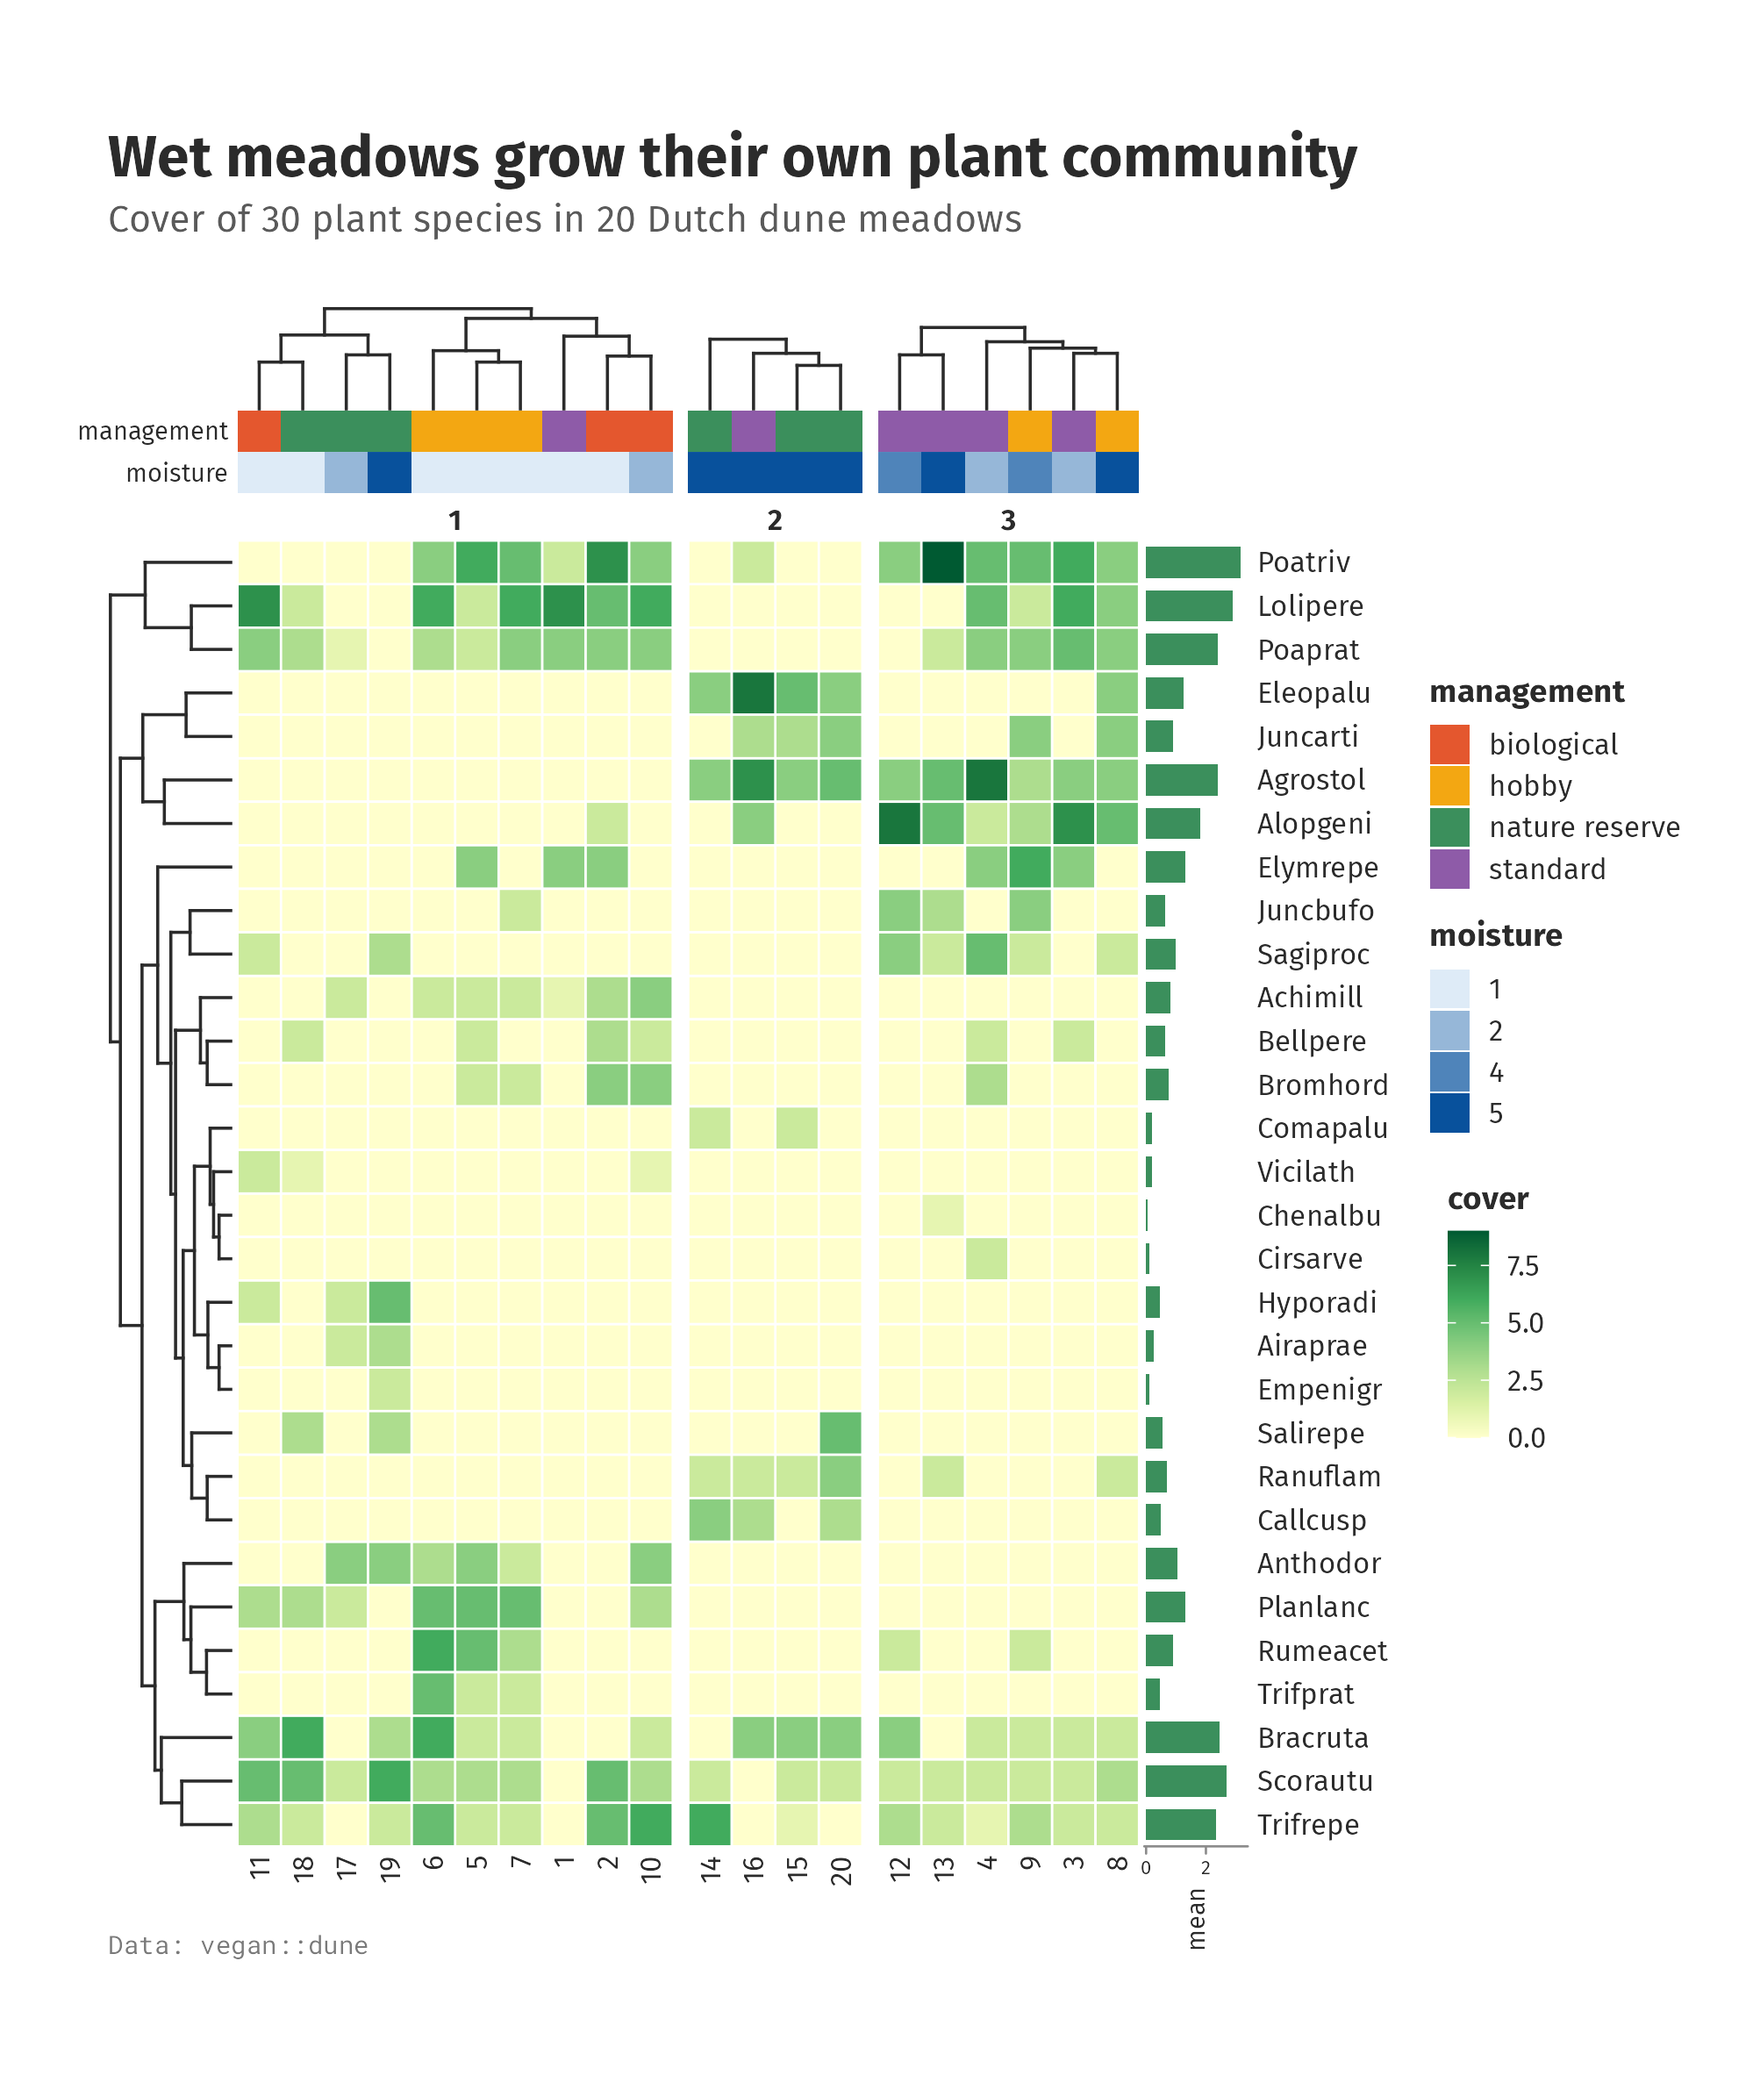
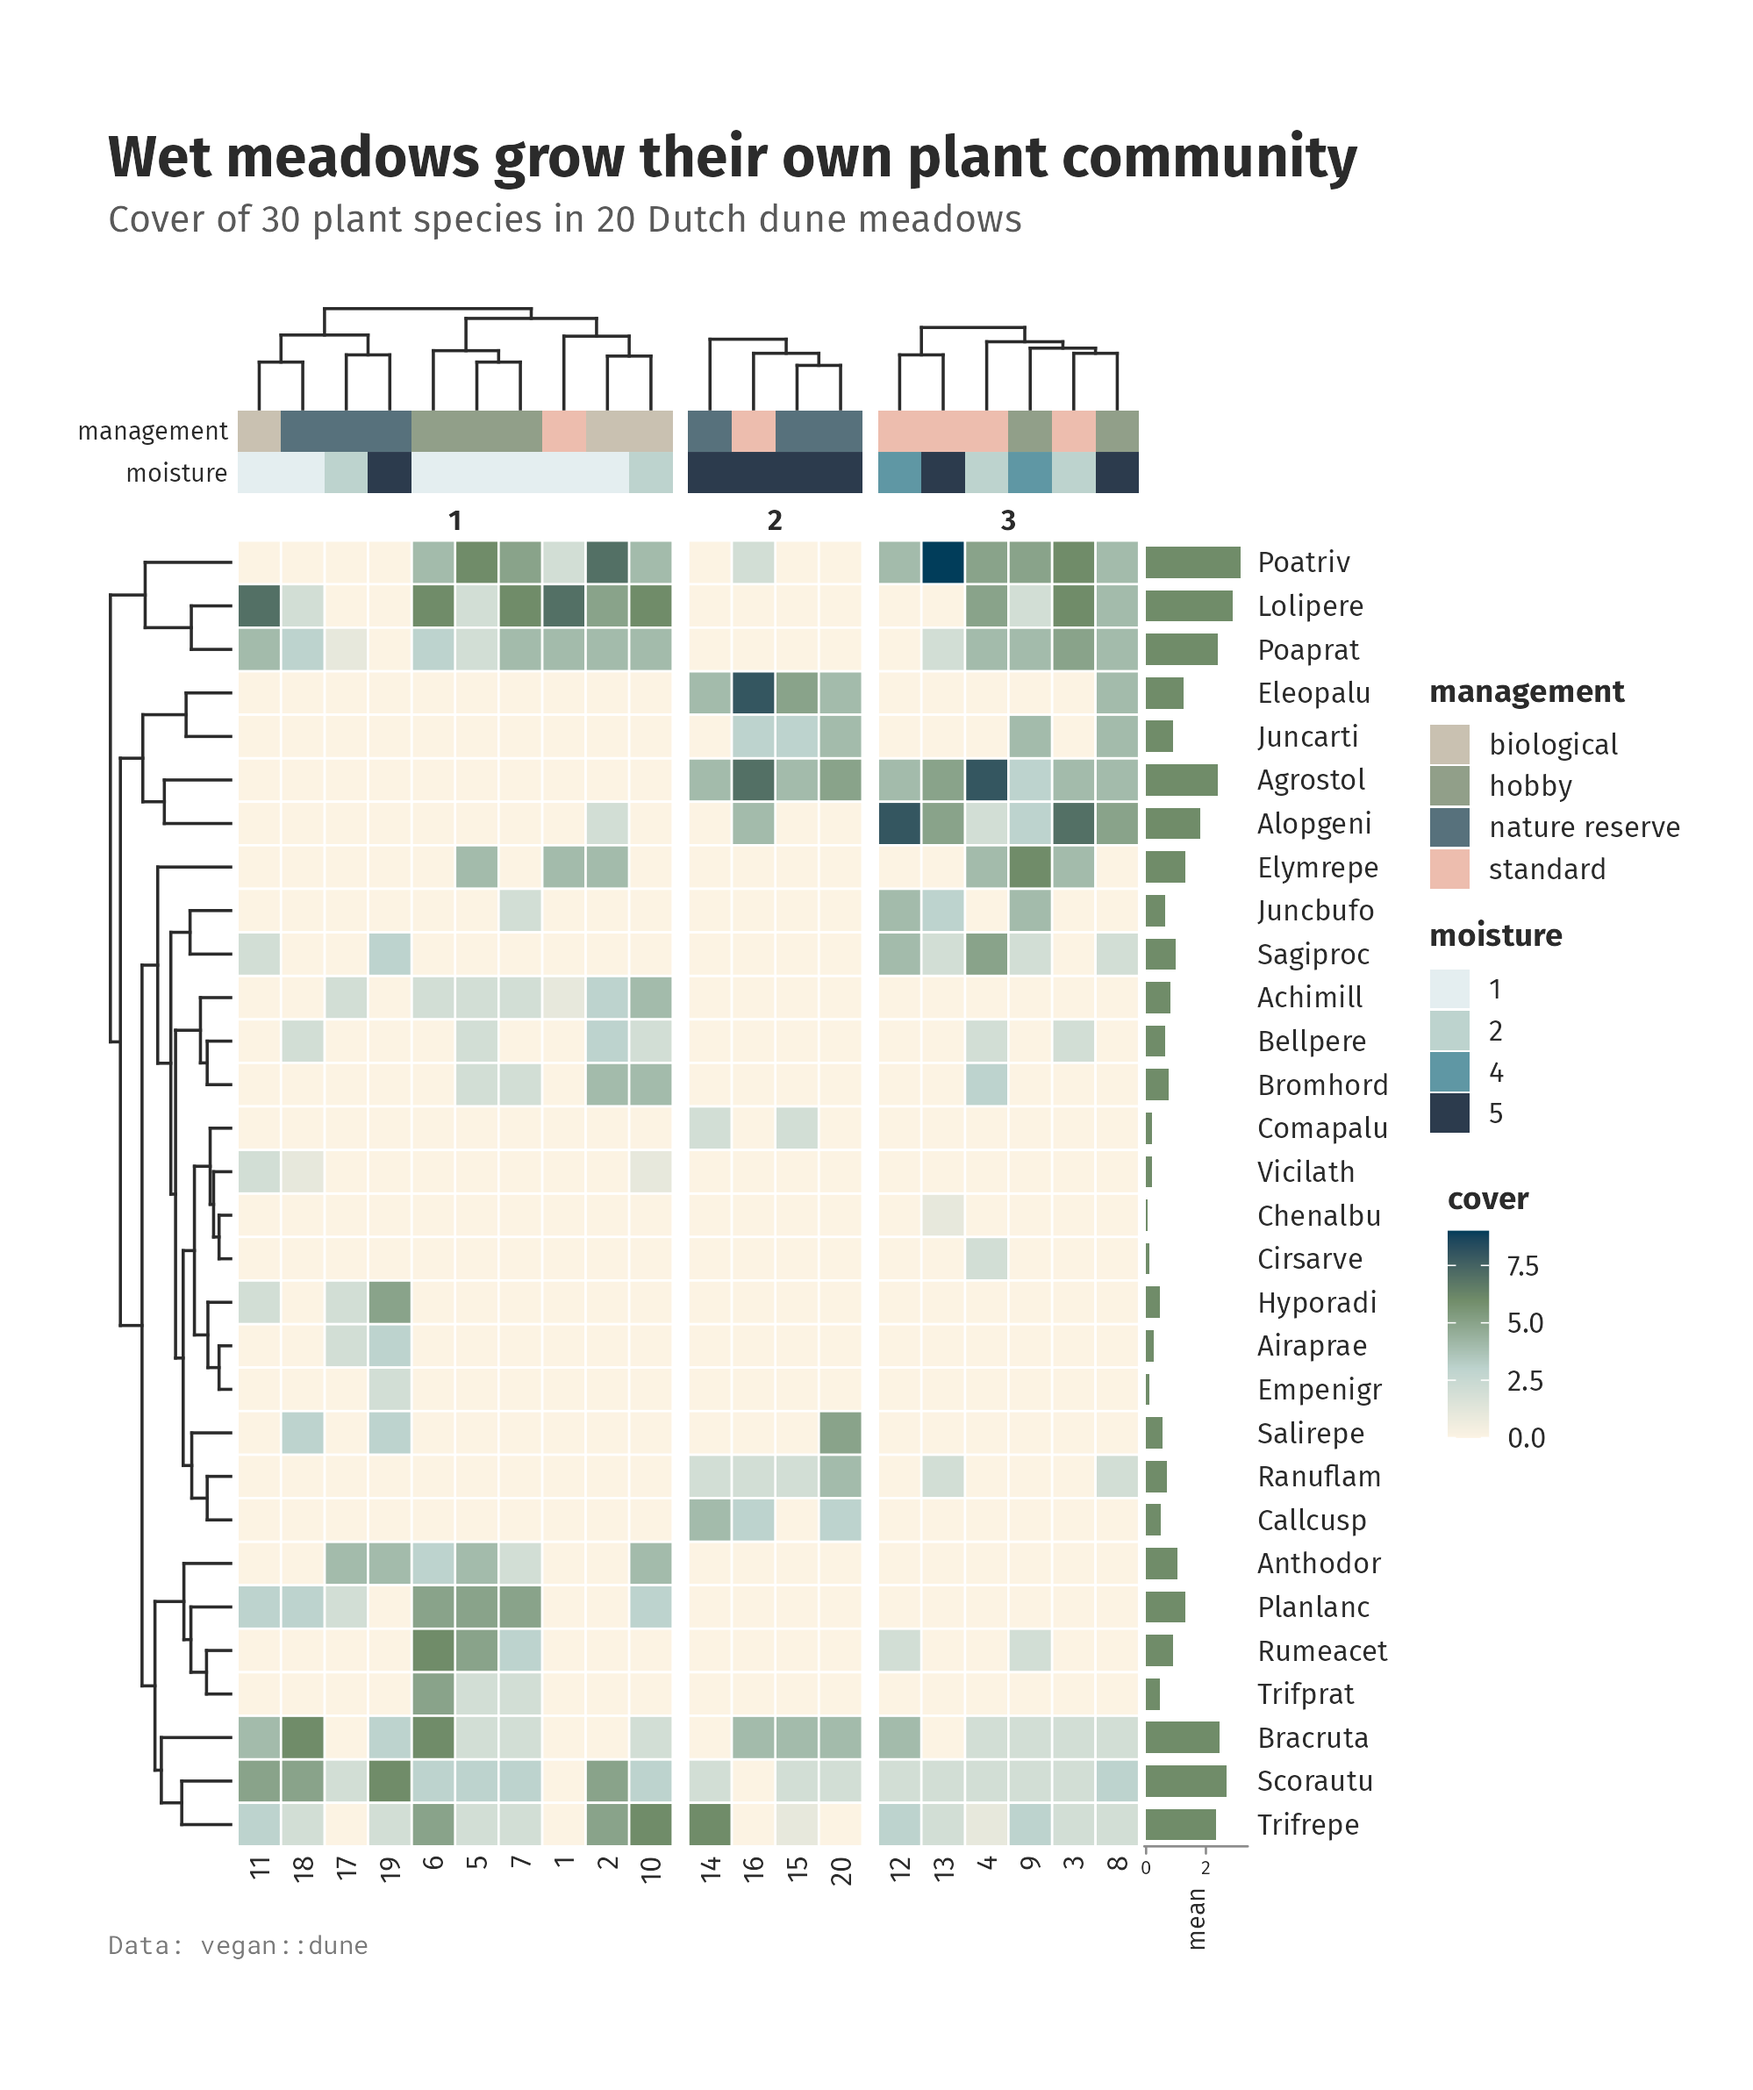
Dune colours from ltc; interactivity for every plot type
- Dune heatmap: cream-sage-teal cover ramp after ltc's seafarer palette,
  quiet earthy tones for the management and moisture tracks
- calor_interactive() keeps hex cells, circle cells and smooth surfaces
  intact, with a clear hover layer on top
- calor_waffle(interactive = TRUE) adds tooltips and linked highlighting
- calor_girafe() sizes any plot and picks hover styling to match
- Gallery shows four live interactive widgets; README links to them

diff --git a/README.md b/README.md
@@ -34,7 +34,7 @@ add a theme or a scale. *Calor* is Spanish for heat.
 2. [Your first heatmap](#your-first-heatmap): one matrix, one figure
 3. [Why ggcalor](#why-ggcalor): cells with a real size, verbs you add
 4. [A tour](#a-tour): clustering, oncoprints, rings and waffles
-5. [The verbs](#the-verbs) · [How it compares](#how-it-compares) · [Data](#data)
+5. [Interactive](#interactive) · [The verbs](#the-verbs) · [How it compares](#how-it-compares) · [Data](#data)
 
 ---
 
@@ -121,9 +121,14 @@ levels(sites$management) <- c("biological", "hobby", "nature reserve", "standard
 ggcalor(t(dune), cell_size = 4.2) +
   calor_dendro(rows = TRUE, cols = TRUE) +
   calor_split(cols = 3) +
-  calor_anno(top = sites) +
-  calor_margin(right = "mean", fill = "#3B8F5C") +
-  scale_fill_distiller(palette = "YlGn", direction = 1) +
+  calor_anno(top = sites, colours = list(
+    # Quiet, earthy tones keep the eye on the cells.
+    management = c("#C9C1B1", "#919F89", "#57717C", "#EDBDAE"),
+    moisture = c("#E4EEF0", "#BDD3CE", "#5F97A4", "#2C3B4D")
+  )) +
+  calor_margin(right = "mean", fill = "#708C69") +
+  # Cream to sage to deep teal, after the "seafarer" palette in ltc.
+  scale_fill_gradientn(colours = c("#FCF3E3", "#BDD3CE", "#708C69", "#013D5A")) +
   labs(title = "Wet meadows grow their own plant community",
        subtitle = "Cover of 30 plant species in 20 Dutch dune meadows",
        caption = "Data: vegan::dune", fill = "cover")
@@ -210,6 +215,24 @@ The same grid also draws smooth surfaces and waffle charts.
 </tr>
 </table>
 
+## Interactive
+
+Add `calor_interactive()` to any plot and render it with `calor_girafe()`
+(this needs the ggiraph package). Every cell gets a tooltip, and hovering
+highlights a cell, its row or its column. Rings, waffles, hex cells and
+smooth surfaces all work.
+
+```r
+p <- ggcalor(t(dune), cell_size = 4.2) +
+  calor_dendro(rows = TRUE, cols = TRUE) +
+  calor_anno(top = sites) +
+  calor_interactive(data_id = "row")
+calor_girafe(p)
+```
+
+GitHub can't show live widgets, so
+[**try them in the gallery**](https://loukesio.github.io/ggcalor/articles/gallery.html#interactive).
+
 ## The verbs
 
 | Verb | What it does |
@@ -226,7 +249,7 @@ The same grid also draws smooth surfaces and waffle charts.
 | `calor_legend("histogram")` | A histogram of the values in place of the colour bar |
 | `calor_labels()` | Where row and column names go, and how they look |
 | `calor_radial()` | Bend the grid into a ring |
-| `calor_interactive()`, `calor_girafe()` | Tooltips and linked highlighting through ggiraph |
+| `calor_interactive()`, `calor_girafe()` | Tooltips and linked highlighting through ggiraph; `calor_waffle(interactive = TRUE)` for waffles |
 | `calor_save()`, `calor_size()` | Save at, or report, the natural size |
 | `calor_waffle()` | Unit charts on the same cell grid |
 
